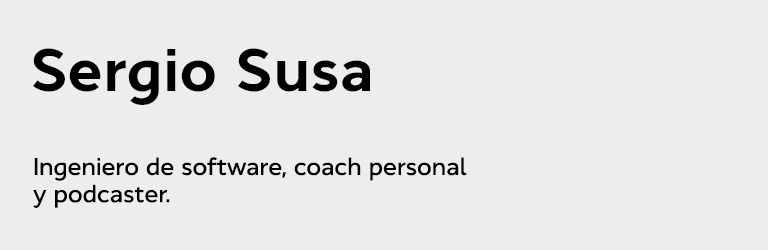
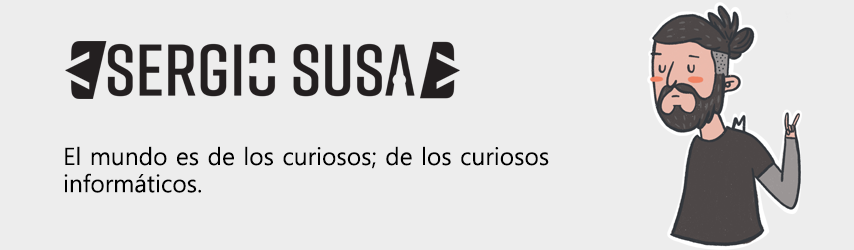
cambio el header y la organización de los enlaces.

Changed region(s): [[0.75, 0.028, 0.9375, 1.0], [0.0312, 0.14, 0.5312, 0.42], [0.0312, 0.588, 0.6562, 0.84]]

diff --git a/README.md b/README.md
@@ -2,28 +2,19 @@
 
 ![Sergio Susa](https://github.com/sergiosusa/sergiosusa/raw/master/images/github_header.png)
 
-Soy un **Ingeniero de sistemas y computación** interesado en temas de desarrollo de software y otros relacionados con el sector tecnológico.
+Soy un **Ingeniero de sistemas y computación** interesado en temas de desarrollo de software y todo lo relacionado con el sector tecnológico.
 
-## Mantente en contacto conmigo a travez de la web 🌍
+## Mantente en contacto conmigo a través de la web 🌍
 
-* 🎙 Mi [podcast (¿Qué me estás container?)](https://www.ivoox.com/podcast-que-me-estas-container_sq_f1675569_1.html)
-* 📷 Mi [instagram](https://www.instagram.com/sergiosusa/)
-* 💡 Mi [twitter](https://twitter.com/sergiosusa)
-* ✒ y mi [página personal](https://sergiosusa.com/).
+### Proyectos personales
+- [🗐 Blog personal](https://sergiosusa.com/)
+- [🎙 ¿Qué me estás container? (Podcast)](https://www.ivoox.com/podcast-que-me-estas-container_sq_f1675569_1.html)
 
-Actualmente colaboro con el [podcast "Todo esta mal"](http://todoestamal.com/) 🤦.
+### Redes sociales
+- [📷 Instagram](https://www.instagram.com/sergiosusa/)
+- [💡 Twitter](https://twitter.com/sergiosusa)
+- [📹 Youtube](https://www.youtube.com/sergiosusa)
+- [👔 Linkedin](https://www.linkedin.com/in/sergiosusa/)
 
-<!--
-**sergiosusa/sergiosusa** is a ✨ _special_ ✨ repository because its `README.md` (this file) appears on your GitHub profile.
+Actualmente colaboro con el podcast ["Todo esta mal"](http://todoestamal.com/) 🤦.
 
-Here are some ideas to get you started:
-
-- 🔭 I’m currently working on ...
-- 🌱 I’m currently learning ...
-- 👯 I’m looking to collaborate on ...
-- 🤔 I’m looking for help with ...
-- 💬 Ask me about ...
-- 📫 How to reach me: ...
-- 😄 Pronouns: ...
-- ⚡ Fun fact: ...
--->
